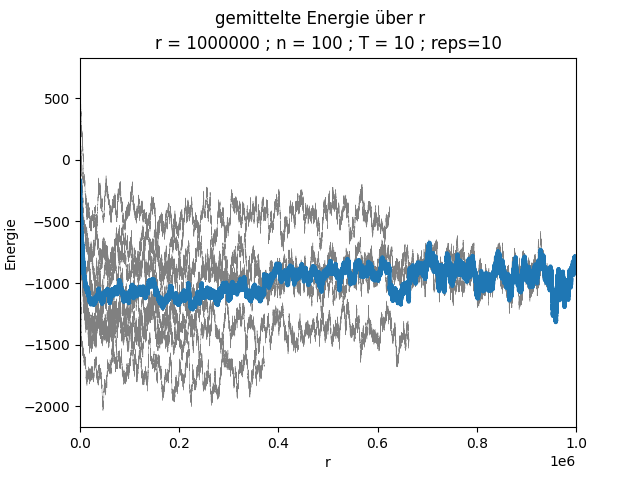
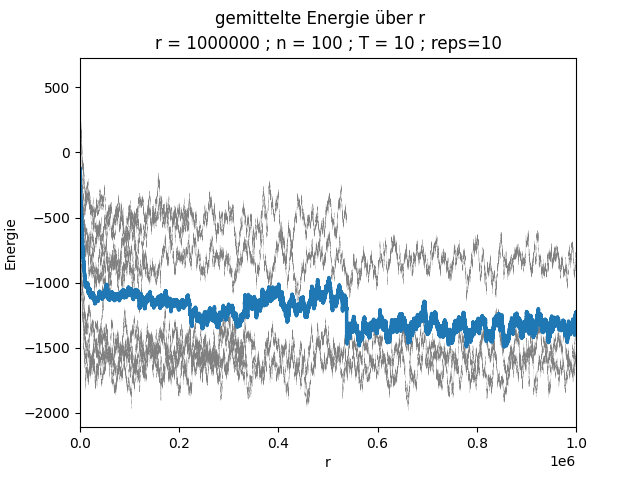
beta an Stelle von T eingeführt. Funktion für Daten für Mag nach beta

diff --git a/Projekt/SaveGitter.py b/Projekt/SaveGitter.py
@@ -34,11 +34,15 @@ def saveGridIMG(my_arr, n, string) -> None:
     # Speicehrt plot als .png
     fig.savefig(string, dpi=200)
 
-def saveGraphIMG(yAxis, n, T, filename, ptp) -> None:
+def saveGraphIMG(yAxis, n, beta, filename, ptp) -> None:
     """
     Speichert Array als Bilddatei.
     Funktioniert nur für Darstellung von Graphen.
     """
+
+    # Definiert Titel und Überschrift dieser Speicherung
+    title = "r = %(r)s ; n = %(n)s ; beta = %(beta)s ; ptp=%(ptp)s" % locals()
+    title = title.replace(".", ",")
 
     r = yAxis.shape[0]
 
@@ -49,7 +53,7 @@ def saveGraphIMG(yAxis, n, T, filename, ptp) -> None:
 
     # Überschrift und Unterüberschrift
     fig.suptitle("Energie über r")
-    ax.set_title("r = %(r)s ; n = %(n)s ; T = %(T)s ; ptp=%(ptp)s" % locals())
+    ax.set_title(title)
 
     # Achsenbeschriftung
     ax.set_ylabel("Energie")
@@ -59,9 +63,9 @@ def saveGraphIMG(yAxis, n, T, filename, ptp) -> None:
     ax.set_xlim(0, r)
 
     # Speicehrt plot als .png
-    fig.savefig(filename + "_r=%(r)s_n=%(n)s_T=%(T)s_ptp=%(ptp)s" % locals())
+    fig.savefig(filename + "r = %(r)s ; n = %(n)s ; beta = %(beta)s ; ptp=%(ptp)s" % locals())
 
-def saveMeanGraphIMG(yAxese, yAxisMean, r, n, T, reps, filename) -> None:
+def saveMeanGraphIMG(yAxese, yAxisMean, r, n, beta, reps, filename) -> None:
     """
     Plottet den Durschnitts-Array und dazu die einzelnen Arrays dünn in grau und speichert als Bilddatei.
     Funktioniert nur für Darstellung von Graphen.
@@ -74,9 +78,13 @@ def saveMeanGraphIMG(yAxese, yAxisMean, r, n, T, reps, filename) -> None:
         ax.plot(i,  color='grey', linewidth='0.1')
     ax.plot(yAxisMean, linewidth='2.5')
 
+    # Definiert Titel und Überschrift dieser Speicherung
+    title = "r = %(r)s ; n = %(n)s ; beta = %(beta)s ; reps=%(reps)s" % locals()
+    title = title.replace(".", ",")
+
     # Überschrift und Unterüberschrift
     fig.suptitle("gemittelte Energie über r")
-    ax.set_title("r = %(r)s ; n = %(n)s ; T = %(T)s ; reps=%(reps)s" % locals())
+    ax.set_title(title)
 
     # Achsenbeschriftung
     ax.set_ylabel("Energie")
@@ -86,9 +94,21 @@ def saveMeanGraphIMG(yAxese, yAxisMean, r, n, T, reps, filename) -> None:
     ax.set_xlim(0, r)
 
     # Speicehrt plot als .png
-    fig.savefig(filename + "_r=%(r)s_n=%(n)s_T=%(T)s_reps=%(reps)s" % locals())
+    # fig.savefig(filename + "_r=%(r)s_n=%(n)s_T=%(beta)s_reps=%(reps)s".replace(".", ",") % locals())
+    fig.savefig(filename + title)
 
-def saveFile(my_arr, string) -> None:
-    """Sepeichert Array als Textdatei."""
+def saveList(string, my_list) -> None:
+    """Sepeichert Liste als Textdatei."""
     with open(string, 'w') as file:
-        file.write(np.array2string(my_arr, threshold=100))
+        file.write(my_list)
+
+def saveArray(string, my_arr, delimiter=' ') -> None:
+    """Speichert Array als Textdatei."""
+    np.savetxt(string, my_arr)
+
+def loadArray(string, delimiter=None) -> np.ndarray:
+    """Lädt Array aus einer Textdatei."""
+    try:
+        return np.loadtxt(string, delimiter)
+    except:
+        print("Eine Datei mit diesem Namen existiert nicht.")

diff --git a/Projekt/main.py b/Projekt/main.py
@@ -7,42 +7,42 @@ import numpy as np
 import MakeGitter as MG
 import DetermineCharge as DC
 import SwitchSpinOptimized as SwSp
+from DetermineMagnetisierung import getAllMag
 import SaveGitter as SG
 import Wiederholung
 import Berechnungen as B
-
+import Functions
 
 n = 100
-T = 10
-r = 1000000
-reps = 10
+# T = 10
+beta = 0.5 # 0 <= beta <= 1
+r = 10000
+reps = 3
 
 
-def meanGraph() -> None:
-    listOfGraphs = Wiederholung.repeat(reps, n, T, r)
-    print(listOfGraphs)
 
-    avgGraph = B.tolerant_meanArray(listOfGraphs)
-    print(avgGraph)
+def blub(reps, n, beta, r,) -> list:
+    # x = Wiederholung.repeatChoose(reps, n, beta, r, 0)
+    # y = map(getAllMag, x)
+    return list(map(getAllMag, Wiederholung.repeatChoose(reps, n, beta, r, 0)))
 
-    SG.saveMeanGraphIMG(listOfGraphs, avgGraph, r, n, T, reps,  "EGraphGemittelt")
+def testBeta(d) -> list:
+    betas = np.flip(np.arange(1.0, 0.0, -1.0/d))
+    return [blub(reps, n, beta, r,) for beta in betas]
 
-def graph():
-    gitter = MG.getGitterV2(n)
+x = testBeta(5)
+print(x)
 
-    # SG.saveGridIMG(gitter, n, "Projekt/Ergebnis/start_Graph")
-    # SG.saveFile(gitter, "Projekt/Ergebnis/start_Array")
+y = B.avgArraySameLength(x, axis=1)
+print(y)
 
-    conf_neu, my_graphE, my_akzeptanzVars, infos = SwSp.switchSpin(gitter, n, T, r, distanz=0, akzeptanzrate=False, GraphE=True, Abbruchbedingung=(True, 100))
+# bla = [beta for beta in np.arange(1.0, 0.0, -1.0/50)]
+# print(np.flip(bla))
 
-    print("hsdfbsdifb")
-    # print(conf_neu)
-    print(my_graphE)
-    # print(my_akzeptanzVars)
 
-    # SG.saveGridIMG(conf_neu, n, "Projekt/Ergebnis/end_Graph")
-    SG.saveGraphIMG(my_graphE, n, T,  "EGraph", int(infos[3]))
-    # SG.saveFile(gitter, "Projekt/Ergebnis/end_Array")
+# y = map(getAllMag, x)
+# print(list(y))
+# SG.saveArray("test", x)
 
-# graph()
-meanGraph()
+
+# Functions.meanGraph(n, beta, r, reps)

diff --git a/Projekt/Wiederholung.py b/Projekt/Wiederholung.py
@@ -6,5 +6,16 @@ import itertools
 from SwitchSpinOptimized import switchSpin as swSp
 from  MakeGitter import getGitterV2 as getGitter
 
-def repeat(reps, n, T, r, distanz=0, akzeptanzrate=False, GraphE=True, GraphMag=False, Abbruchbedingung=(True, 100)) -> list:
-    return [swSp(getGitter(n), n, T, r, distanz=0, akzeptanzrate=False, GraphE=True, GraphMag=False, Abbruchbedingung=(True, 100))[1] for x in itertools.repeat(None, reps)]
+
+def repeatAll(reps, n, beta, r, distanz=0, abbruch=100) -> np.ndarray:
+    """Returned einen Liste mit mit allen Rückgabe-Arrays von reps Durchläufen"""
+    return [swSp(getGitter(n), n, beta, r, distanz, akzeptanzrate=True, GraphE=True, Abbruchbedingung=(True, abbruch)) for x in itertools.repeat(None, reps)]
+
+def repeatChoose(reps, n, beta, r, pos, distanz=0, akzeptanzrate=False, GraphE=True, Abbruchbedingung=(True, 100)) -> np.ndarray:
+    """Returned einen Liste mit den Arrays an der Position pos von den Rückgabewerten vonswitchSpin von reps Durchläufen"""
+    return [swSp(getGitter(n), n, beta, r, distanz, akzeptanzrate, GraphE, Abbruchbedingung)[pos] for x in itertools.repeat(None, reps)]
+
+
+def repeatE_Graph(reps, n, beta, r, distanz=0, akzeptanzrate=False, GraphE=True, Abbruchbedingung=(True, 100)) -> np.ndarray:
+    """Returned einen Liste mit den Arrays für die Energie-Graphen von reps Durchläufen"""
+    return [swSp(getGitter(n), n, beta, r, distanz, akzeptanzrate, GraphE, Abbruchbedingung)[1] for x in itertools.repeat(None, reps)]

diff --git a/Projekt/SwitchSpinOptimized.py b/Projekt/SwitchSpinOptimized.py
@@ -16,7 +16,7 @@ import matplotlib.pyplot as plt
 # beta = J/1.380649e-23*T
 
 
-def switchSpin(conf, n, T, r, distanz=0, akzeptanzrate=True, GraphE=True, GraphMag=False, Abbruchbedingung=(False, None)) -> tuple:
+def switchSpin(conf, n, beta, r, distanz=0, akzeptanzrate=True, GraphE=True, Abbruchbedingung=(True, 100)) -> np.ndarray:
     """
     Wählt einen zufälligen Spin aus, wechselt diesen und überprüft, ob dieser Wechsel beibehalten oder rückgängig gemacht wird.
     Beinhaltet Code zum berechnen der Akzeptanzrate.
@@ -41,10 +41,8 @@ def switchSpin(conf, n, T, r, distanz=0, akzeptanzrate=True, GraphE=True, GraphM
     if Abbruchbedingung[0]:
         AbbruchArray = np.zeros((Abbruchbedingung[1]))
 
-    # if GraphMag:
-    #     yAxisGraphMag = np.zeros(r)
-
-    beta = 1/T
+    # beta = 1/T
+    T = 1/beta
 
     posAlt = (None, None)
     pos = None
@@ -129,6 +127,6 @@ def switchSpin(conf, n, T, r, distanz=0, akzeptanzrate=True, GraphE=True, GraphM
         my_GraphE = yAxisGraphE[0:r]
 
         # saveGraphIMG(xAxis, np.fft.fft(yAxis), r, n, "EnergieGraphSMooth")
-    infos = [n, T, r, ptp]
+    infos = np.array([n, T, r, ptp])
 
-    return [conf, my_GraphE if GraphE else None, my_akzeptenzVars if akzeptanzrate else None, infos]
+    return np.array([conf, my_GraphE if GraphE else None, my_akzeptenzVars if akzeptanzrate else None, infos], dtype=object)

diff --git a/Projekt/Functions.py b/Projekt/Functions.py
@@ -1,0 +1,37 @@
+# Bibliotheken
+import time
+import matplotlib.pyplot as plt
+import numpy as np
+
+# Funktionen
+import MakeGitter as MG
+import DetermineCharge as DC
+import SwitchSpinOptimized as SwSp
+import SaveGitter as SG
+import Wiederholung
+import Berechnungen as B
+
+def meanGraph(n, beta, r, reps) -> None:
+    listOfGraphs = Wiederholung.repeatE_Graph(reps, n, beta, r)
+    print(listOfGraphs)
+
+    avgGraph = B.tolerant_meanArray(listOfGraphs)
+
+    SG.saveMeanGraphIMG(listOfGraphs, avgGraph, r, n, beta, reps,  "EGraphGemittelt")
+
+def graph(n, beta, r):
+    gitter = MG.getGitterV2(n)
+
+    # SG.saveGridIMG(gitter, n, "Projekt/Ergebnis/start_Graph")
+    # SG.saveFile(gitter, "Projekt/Ergebnis/start_Array")
+
+    conf_neu, my_graphE, my_akzeptanzVars, infos = SwSp.switchSpin(gitter, n, beta, r, distanz=0, akzeptanzrate=False, GraphE=True, Abbruchbedingung=(True, 100))
+
+    print("hsdfbsdifb")
+    # print(conf_neu)
+    print(my_graphE)
+    # print(my_akzeptanzVars)
+
+    # SG.saveGridIMG(conf_neu, n, "Projekt/Ergebnis/end_Graph")
+    SG.saveGraphIMG(my_graphE, n, beta,  "EGraph", int(infos[3]))
+    # SG.saveFile(gitter, "Projekt/Ergebnis/end_Array")

diff --git a/Projekt/Berechnungen.py b/Projekt/Berechnungen.py
@@ -6,8 +6,8 @@ def smooth(y, box_pts) -> np.ndarray:
     y_smooth = np.convolve(y, box, mode='same')
     return y_smooth
 
-def averageArraySameLength(my_arrays) -> np.ndarray:
-    return np.mean((my_arrays), axis=0)
+def avgArraySameLength(my_arrays, axis=0) -> np.ndarray:
+    return np.mean((my_arrays), axis)
 
 def tolerant_meanArray(arrs):
     lens = [len(i) for i in arrs]
